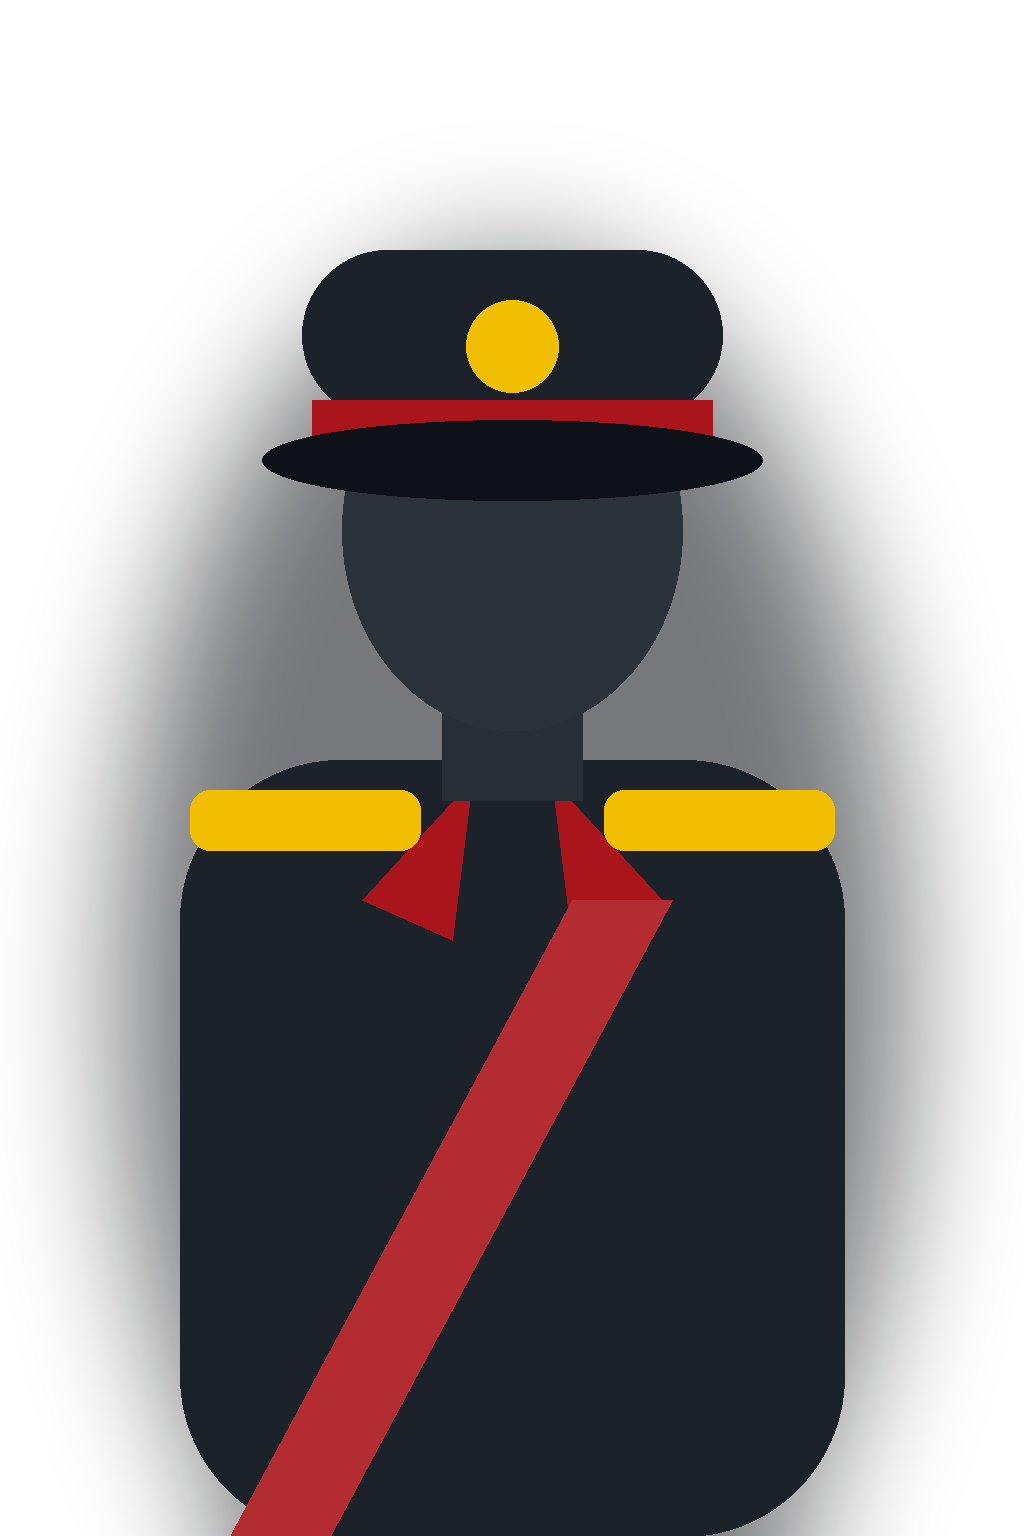
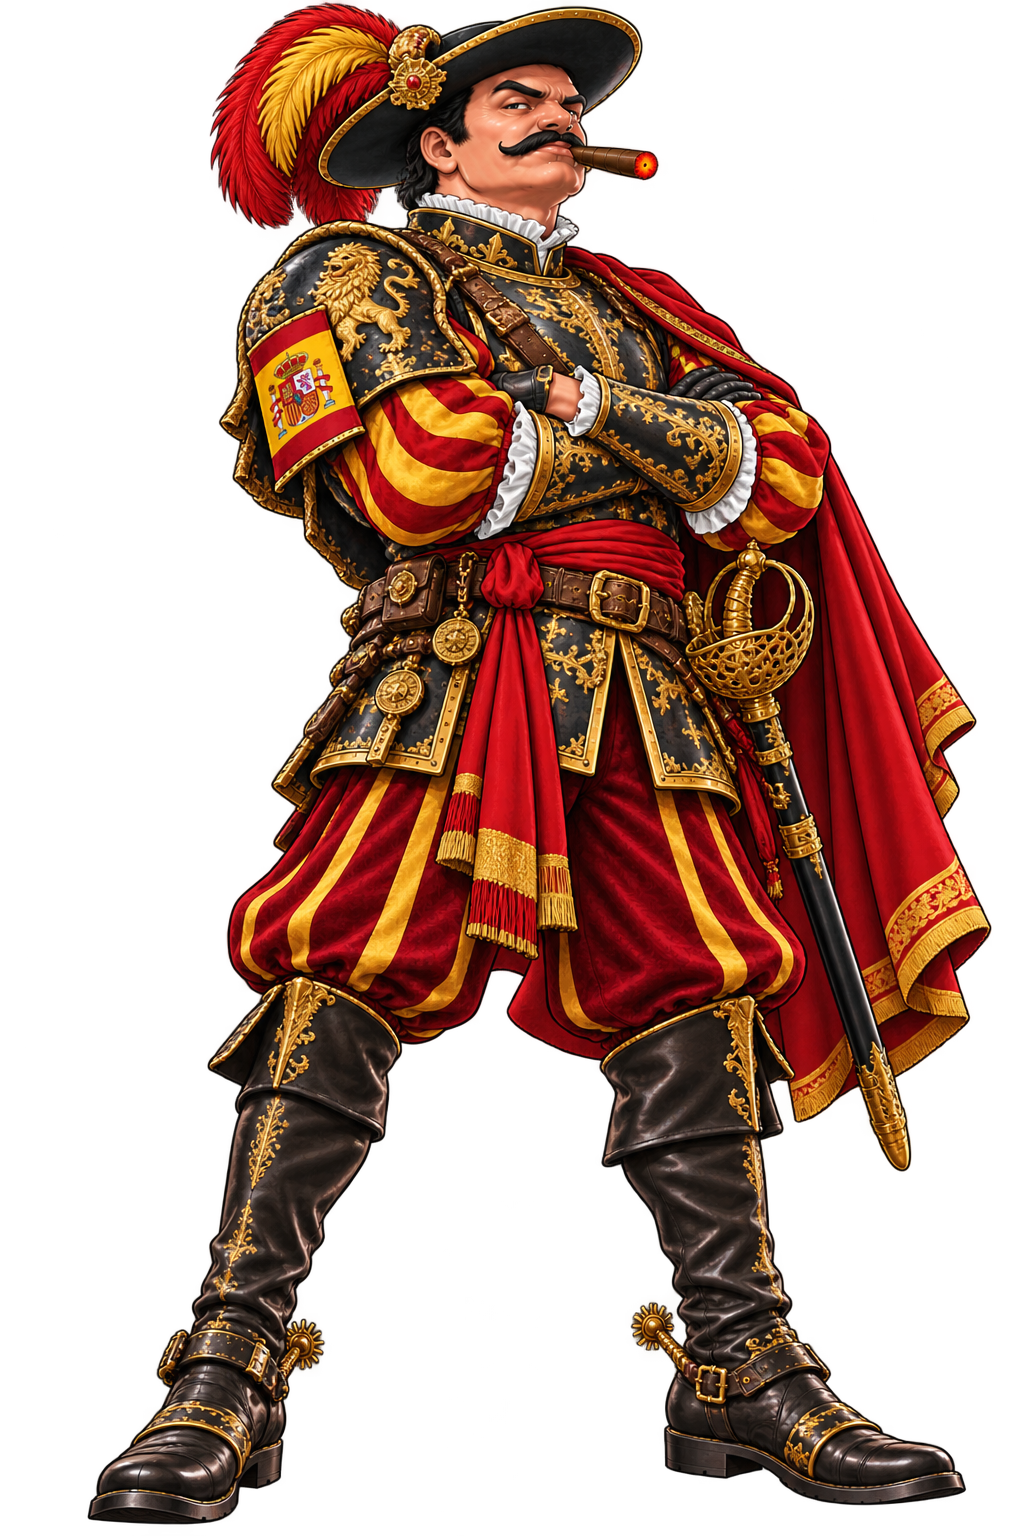
China, Spain and Indonesia, drawn
The three nations with the most maps get their officers: the Shàngjiàng
in dragon lamellar for the Forbidden City, the Great Wall, the Potala,
the Shanghai Tower and the Wild Goose Pagoda; the Capitán General as a
tercio captain for Segovia, the Sagrada Família, Seville and the
Alhambra; the Jenderal in beskap and songket with a keris for the
Borobudur, the National Monument and Prambanan. Same pipeline as the
rest, dropped over the placeholders of the same names. The manifest's
twelve entries point at the three files and carry the looks as drawn.

Claude-Session: https://claude.ai/code/session_01Vm4UdrLmhsEiZM8Dk4Wi6F

diff --git a/docs/PORTRAIT_PROMPTS.md b/docs/PORTRAIT_PROMPTS.md
@@ -1,8 +1,8 @@
 # Officer portraits: the prompt template
 
-The fifteen drawn officers (`public/assets/characters/*.png`) are painted
+The eighteen drawn officers (`public/assets/characters/*.png`) are painted
 illustrations, not something a script can draw. What *can* be templated is
-the brief that produced them, so the thirteen placeholders can be replaced
+the brief that produced them, so the placeholders can be replaced
 in the same style by anyone with an image generator. Every drawn portrait
 shares these properties; keep them all.
 
@@ -22,11 +22,10 @@ soft dark halo left in the alpha so the figure sits on the stand-off's blue
 without a hard edge. File name and slot are in `manifest.json` under
 `enemies.<level>`; the `look` line there is the `{look}` in the prompt.
 
-## The thirteen
+## Still to draw (from the first batch of placeholders)
 
 | Level | File | Rank, nation | Look |
 |---|---|---|---|
-| segovia, sagrada | `es-capitan-general.png` | Capitán General, Spain | Dark green dress uniform with a red sash, peaked cap with gold oak leaves, arms folded. |
 | atomium | `be-luitenant-generaal.png` | Luitenant-generaal, Belgium | Dark green dress uniform with red collar tabs and gold stars, beret in hand. |
 | budapest | `hu-vezerezredes.png` | Vezérezredes, Hungary | Dark olive dress uniform, red-white-green cord, peaked cap, moustache, hands clasped behind. |
 | pena | `pt-general.png` | General, Portugal | Dark green dress uniform with a red-and-green sash and gold shoulder boards, peaked cap. |
@@ -36,13 +35,12 @@ without a hard edge. File name and slot are in `manifest.json` under
 | watarun | `th-phon-ek.png` | Phon Ek, Thailand | White dress uniform with a red sash and gold aiguillettes, peaked cap, unbothered smile. |
 | shwedagon | `mm-bogyoke.png` | Bogyoke, Myanmar | Olive dress uniform with red collar and gold epaulettes, peaked cap, medals. |
 | angkor | `kh-oudom-seney.png` | Oudom Seney, Cambodia | Dark olive dress uniform with red collar tabs and gold stars, peaked cap. |
-| borobudur | `id-jenderal.png` | Jenderal, Indonesia | Dark green dress uniform with four gold stars, peaked cap, red-and-white cord. |
 | tikal | `gt-general-de-division.png` | General de División, Guatemala | Olive dress uniform with gold epaulettes and a blue-white sash, peaked cap. |
 | machupicchu | `pe-general-de-ejercito.png` | General de Ejército, Peru | Red-and-white sash over dark dress uniform, peaked cap with gold laurels. |
 
-The Malaysian (`my-jeneral.png`) and Chinese (`cn-shangjiang.png`) slots
-from the third batch are in `manifest.json` with their looks and take the
-same template.
+The Malaysian slot (`my-jeneral.png`) from the third batch is in
+`manifest.json` with its look and takes the same template. China, Spain
+and Indonesia are drawn, one officer to each nation's every level.
 
 ## Installing one
 
